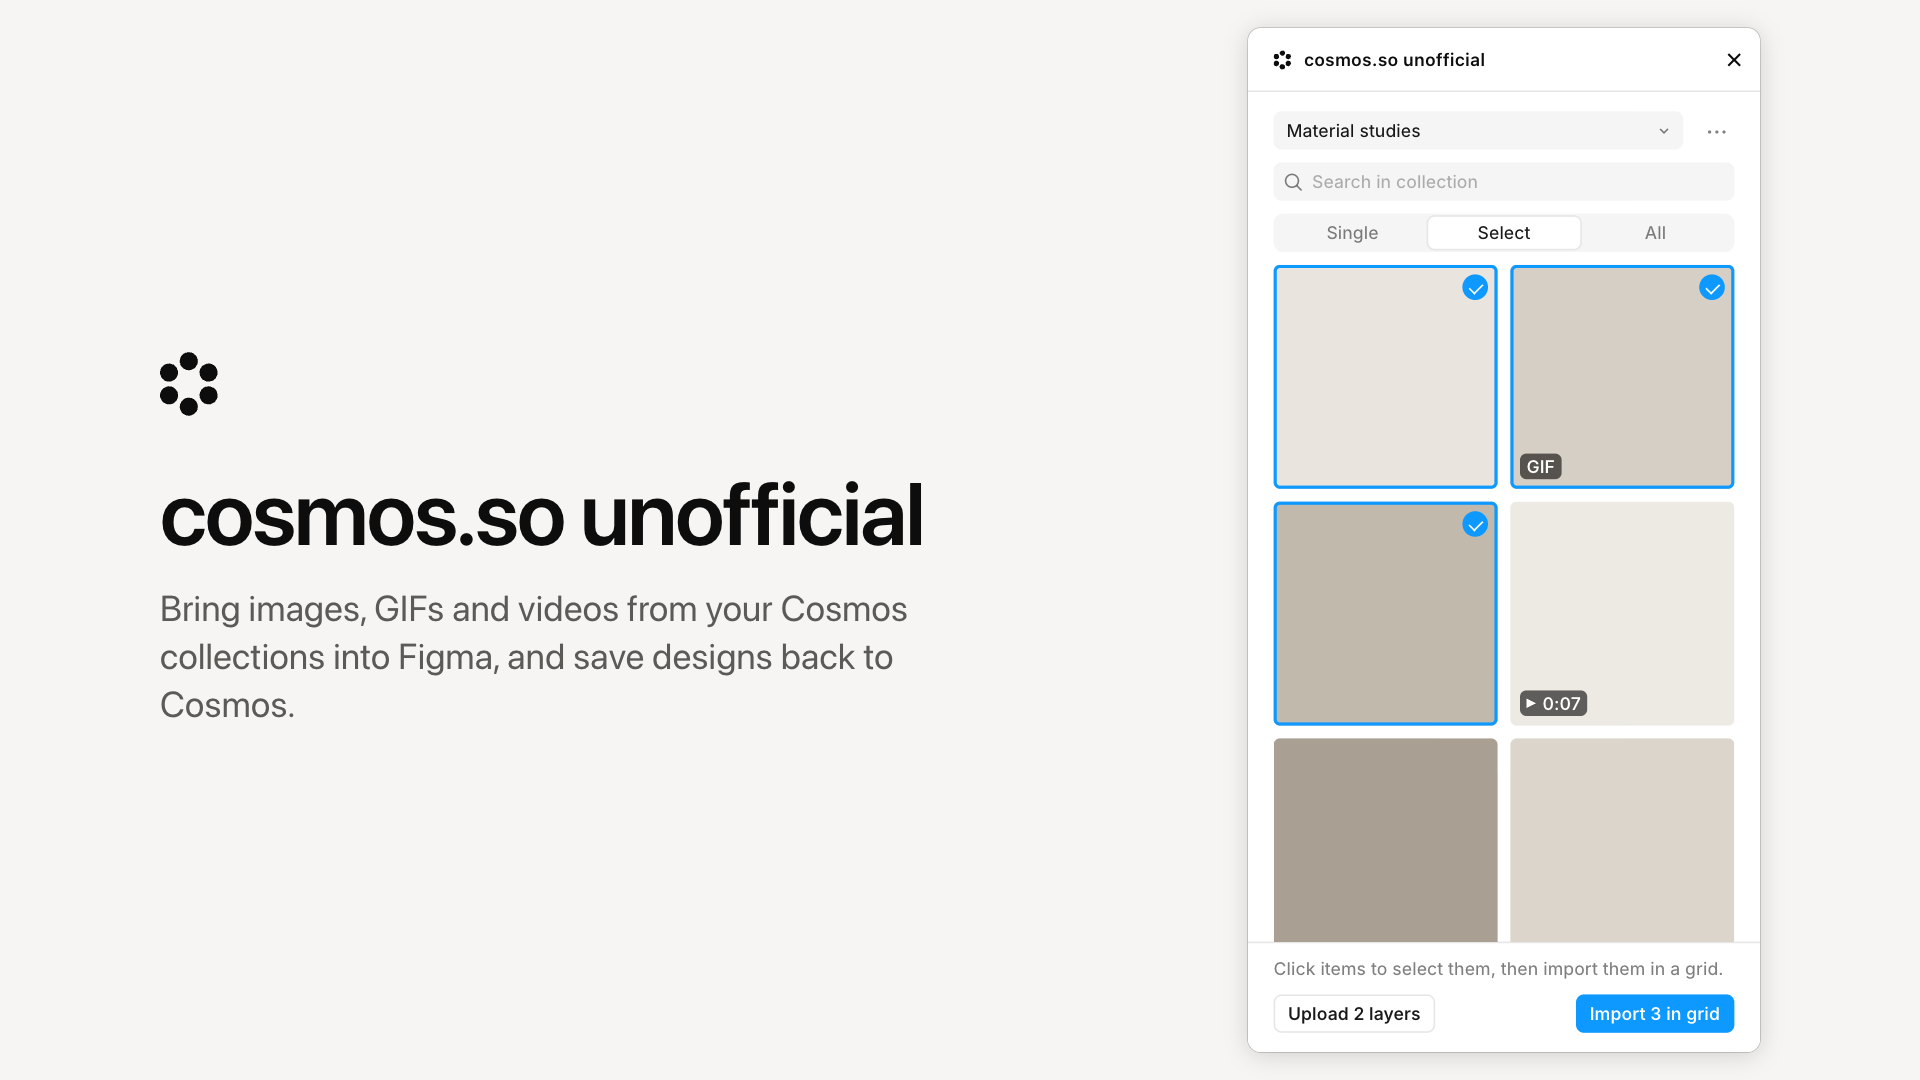
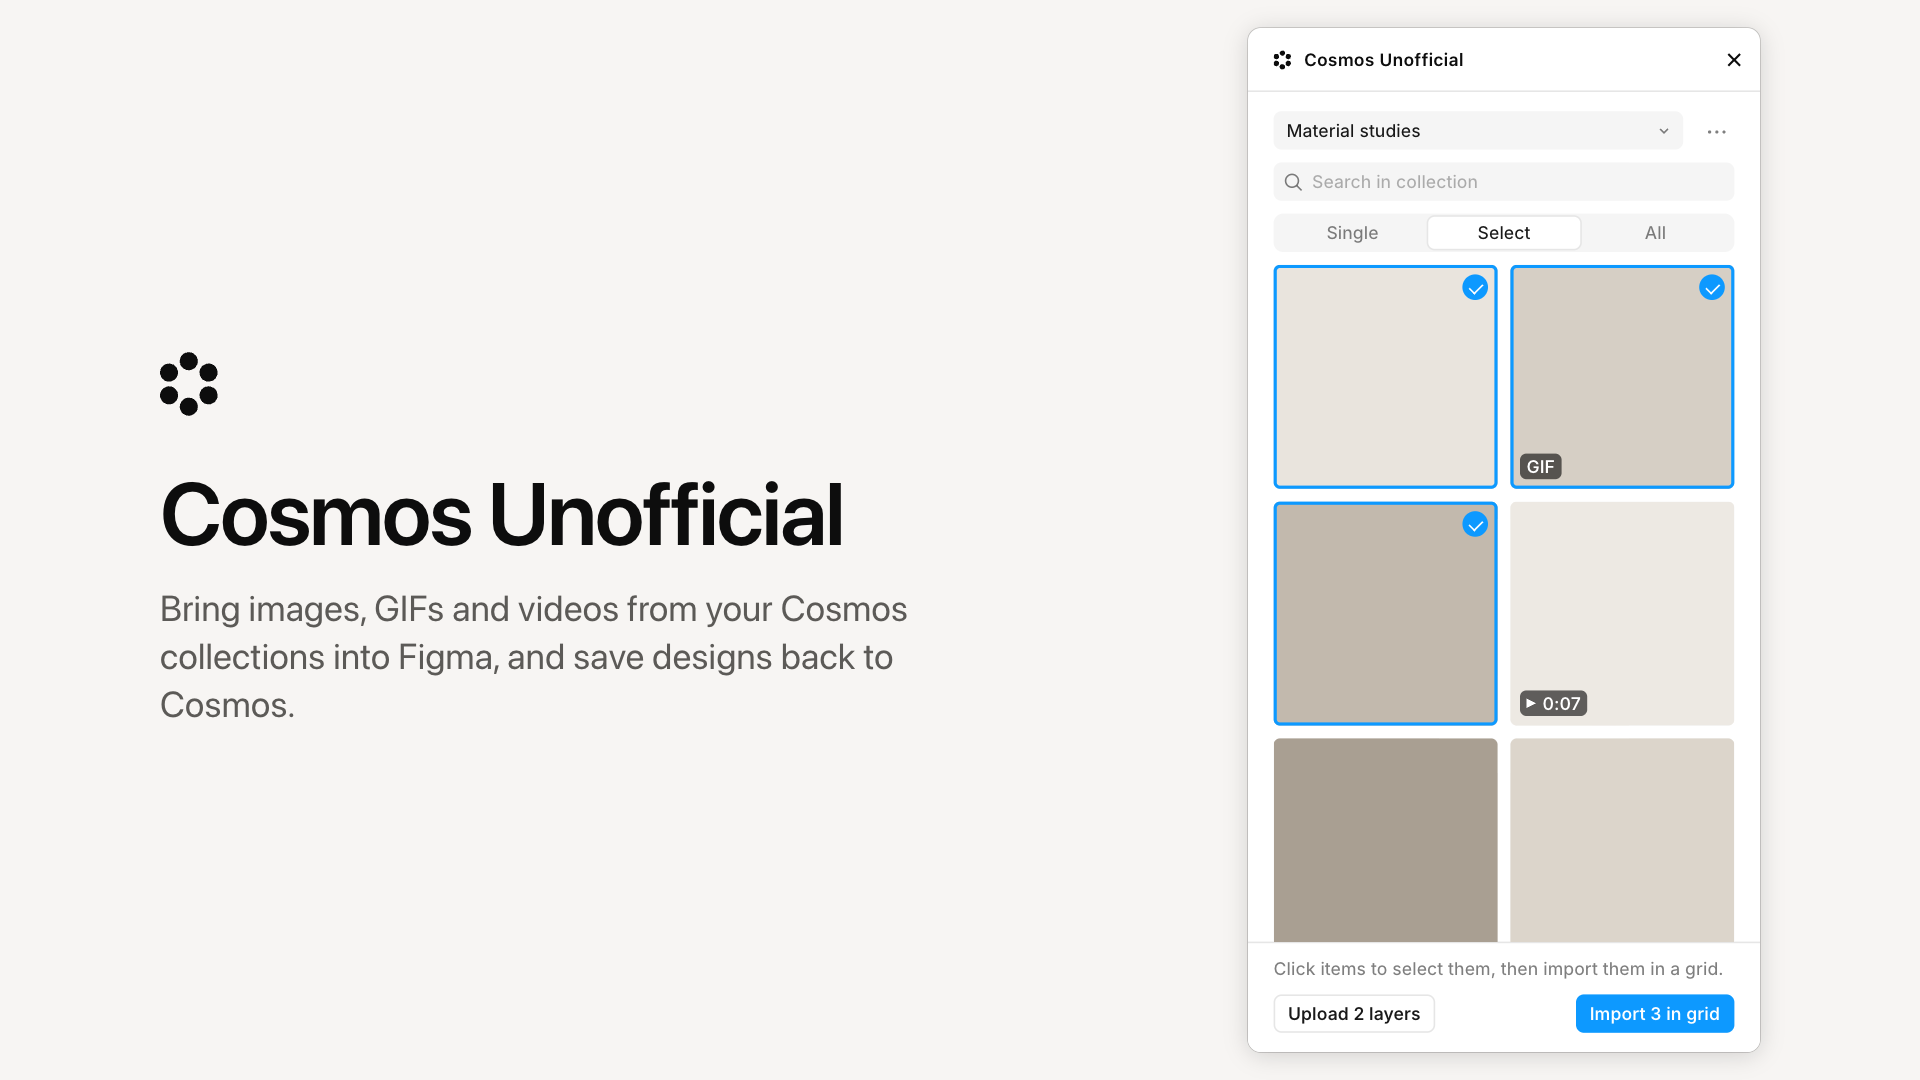
Rename the plugin to Cosmos Unofficial

Changed region(s): [[0.0625, 0.4278, 0.5, 0.5194], [0.6875, 0.0306, 0.7812, 0.0611]]

diff --git a/docs/mockup.html b/docs/mockup.html
@@ -2,7 +2,7 @@
 <!-- Renders the README mockups from the real ui.html with placeholder data. Serve the repo root with
      `python3 -m http.server`, open /docs/mockup.html#light or #dark, and capture 1920 x 1080. -->
 <meta charset="utf-8">
-<title>cosmos.so unofficial mockup</title>
+<title>Cosmos Unofficial mockup</title>
 <style>
   * { box-sizing: border-box; }
 
@@ -84,13 +84,13 @@
 
 <div class="copy">
   <svg aria-hidden="true"><use href="#logo"/></svg>
-  <h1>cosmos.so unofficial</h1>
+  <h1>Cosmos Unofficial</h1>
   <p>Bring images, GIFs and videos from your Cosmos collections into Figma, and save designs back to Cosmos.</p>
 </div>
 
 <div class="stage">
   <div class="window">
-    <div class="bar"><svg aria-hidden="true"><use href="#logo"/></svg><span>cosmos.so unofficial</span>✕</div>
+    <div class="bar"><svg aria-hidden="true"><use href="#logo"/></svg><span>Cosmos Unofficial</span>✕</div>
     <iframe id="frame" sandbox="allow-scripts"></iframe>
   </div>
 </div>

diff --git a/ui.html b/ui.html
@@ -508,7 +508,7 @@
   <form id="login-form" class="sheet">
     <svg class="logo" aria-hidden="true"><use href="#logo"/></svg>
     <h1>Sign in to Cosmos</h1>
-    <p class="intro">cosmos.so unofficial is an independent plugin, not affiliated with or endorsed by Cosmos. Your password goes only to cosmos.so and is never stored.</p>
+    <p class="intro">Cosmos Unofficial is an independent plugin, not affiliated with or endorsed by Cosmos. Your password goes only to cosmos.so and is never stored.</p>
     <input class="field large" name="identifier" placeholder="Email or username" autocomplete="username" required>
     <input class="field large" name="password" type="password" placeholder="Password" autocomplete="current-password" required>
     <button class="primary large">Sign in</button>

diff --git a/README.md b/README.md
@@ -1,4 +1,4 @@
-# cosmos.so unofficial
+# Cosmos Unofficial
 
 A Figma and FigJam plugin for [Cosmos](https://www.cosmos.so). Bring images, GIFs and videos from your Cosmos collections into Figma, one at a time, as a selection or as whole collections, and save designs back to Cosmos.
 
@@ -7,7 +7,7 @@ A Figma and FigJam plugin for [Cosmos](https://www.cosmos.so). Bring images, GIF
   <img src="docs/mockup-light.png" alt="The plugin window in Figma showing a Cosmos collection in Select mode, with three items checked, a GIF and a video, and the buttons Upload 2 layers and Import 3 in grid">
 </picture>
 
-cosmos.so unofficial is an independent plugin, not affiliated with or endorsed by Cosmos. The Cosmos name and logo belong to Cosmos and are used here only to describe what the plugin connects to. It is not on the Figma Community and will only be published there with Cosmos's permission.
+Cosmos Unofficial is an independent plugin, not affiliated with or endorsed by Cosmos. The Cosmos name and logo belong to Cosmos and are used here only to describe what the plugin connects to. It is not on the Figma Community and will only be published there with Cosmos's permission.
 
 ## What it does
 

diff --git a/docs/listing.md b/docs/listing.md
@@ -10,14 +10,14 @@
 
 | Field | Value |
 | --- | --- |
-| Name | cosmos.so unofficial |
+| Name | Cosmos Unofficial |
 | Tagline | Bring your Cosmos collections into Figma and save designs back. |
 | Category | Design tools |
 
 ### Description
 
 ```text
-cosmos.so unofficial is an independent plugin, not affiliated with or endorsed by Cosmos. You need a Cosmos account.
+Cosmos Unofficial is an independent plugin, not affiliated with or endorsed by Cosmos. You need a Cosmos account.
 
 Pick one of your collections or subcollections, private ones included, or create a new one, then:
 - Browse or search its images, GIFs and videos.
